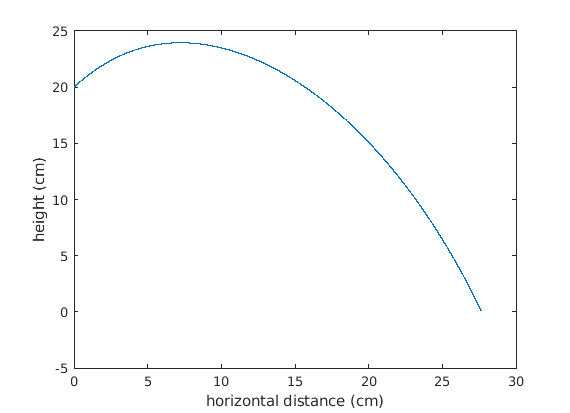
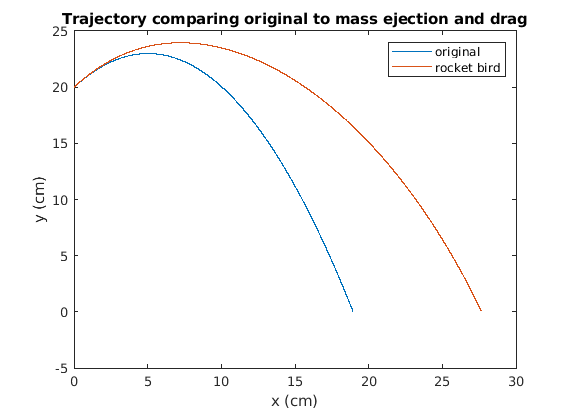
modified some plots, solved ODE RK2

diff --git a/numericalMethods/hwk3/tc3_4_3.m b/numericalMethods/hwk3/tc3_4_3.m
@@ -1,0 +1,93 @@
+% Initial value problem. Sailboat in wavy waters with Runga Kutta
+% function is 100 x'' = 50Vcos(o) + 6Asin(x/10) - 60x'
+
+% N = 6;
+% x = linspace(0,20,N);
+% L(x,1,1)
+% return;
+
+dt = .1;
+t = [0:dt:20];
+N = 20;
+x = linspace(0,20,N);
+dx = x(2) - x(1)
+
+O = zeros(length(t)-1,N);
+O(1,:) = initiate_phis(x);
+
+
+for n=1:length(t)-1
+	k1=f(t(n), O(n,:),dx)';
+	k2=f(t(n)+dt,O(n,:)+dt*k1,dx)';
+	O(n+1,:)=O(n,:) + (k1/2+k2/2)*dt;
+end;
+
+% plot phis for when t = 0,5,10,15
+times = [0 5 10 15];
+for time = times
+	t_i = time/dt + 1; %index with our phis
+	plot(x,O(t_i,:))
+	xlabel('x')
+	ylabel('phi')
+
+end
+% Compare RK2 with a built in
+% [tmat,xmat]=ode23(@f,[0 20],O(1,:));
+% hold on
+% plot(tmat,xmat(:,2))
+% title("RK2 for system of ODEs dO/dt + UdO/dx = v*d2O/dx2")
+% legend('RK2 approximation','ode23 - Matlab builtin solver','location','southeast')
+% 
+% disp('the matlab built-in matches very well with the RK2 solution, so in a handy-wavy way, the chosen delta t of .1 is a good choice')
+
+% The equation we are dealing with::
+% dO/dt + UdO/dx = v*d2O/dx2"
+
+function vec = f(t,O,dx)
+	% set constants
+	v = .025;
+	U = 1;
+	% Return derivatives in vector:
+	O_0 = O(1);
+	L = L_mat(O,dx,U,v);
+	P = zeros(length(O)-1,1)';
+	P(1) = U/(2*dx) + v/dx^2;
+	vec = L*O(2:end)' + P'*O_0; % shouldn't his be 5x1?
+	vec = [O_0; vec];
+end
+
+function L = L_mat(O,dx,U,v)
+	N = length(O)-1; %eg:6 Phi vals, 1st and last go into P. need 5x5 matrix
+	% Make M1
+	M1 = zeros(N);
+	M1(2:end-1,1) = -1;
+        M1(2:end-1,3) = 1;
+        for i = 3:N-1;
+        	M1(i,:) = circshift(M1(i,:),i-2);
+	end
+	M1(1,2) = 1;
+	M1(end, end-1) = -2;
+	M1(end,end) = 2;
+	M1 = -U/(2*dx);
+	% Make M2
+	M2 = zeros(N);
+	M2(2:end,1) = 1;
+        M2(2:end,2) = -2;
+        M2(2:end,3) = 1;
+        for i = 3:N-1;
+        	M2(i,:) = circshift(M2(i,:),i-2);
+	end
+	M2(end,:) = circshift(M2(end,:),N-3);
+	M2(1,1) = -2;
+	M2(1,2) = 1;
+	M2 = v/dx^2*M2;
+	L = M1 + M2;
+end	
+
+
+function O = initiate_phis(x)
+	% pass in array of x,
+	% returns starting phis
+	O = exp(-((x-3)/.5).^2); % from BC
+	O(1) = 0; % from BC
+end

diff --git a/numericalMethods/hwk3/tc3_4_4.m b/numericalMethods/hwk3/tc3_4_4.m
@@ -1,0 +1,93 @@
+% Initial value problem. Sailboat in wavy waters with Runga Kutta
+% function is 100 x'' = 50Vcos(o) + 6Asin(x/10) - 60x'
+
+% N = 6;
+% x = linspace(0,20,N);
+% L(x,1,1)
+% return;
+
+dt = .1;
+t = [0:dt:20];
+N = 20;
+x = linspace(0,20,N);
+dx = x(2) - x(1)
+
+O = zeros(length(t)-1,N);
+O(1,:) = initiate_phis(x);
+
+
+for n=1:length(t)-1
+	k1=f(t(n), O(n,:),dx)';
+	k2=f(t(n)+dt,O(n,:)+dt*k1,dx)';
+	O(n+1,:)=O(n,:) + (k1/2+k2/2)*dt;
+end;
+
+% plot phis for when t = 0,5,10,15
+times = [0 5 10 15];
+for time = times
+	t_i = time/dt + 1; %index with our phis
+	plot(x,O(t_i,:))
+	xlabel('x')
+	ylabel('phi')
+
+end
+% Compare RK2 with a built in
+% [tmat,xmat]=ode23(@f,[0 20],O(1,:));
+% hold on
+% plot(tmat,xmat(:,2))
+% title("RK2 for system of ODEs dO/dt + UdO/dx = v*d2O/dx2")
+% legend('RK2 approximation','ode23 - Matlab builtin solver','location','southeast')
+% 
+% disp('the matlab built-in matches very well with the RK2 solution, so in a handy-wavy way, the chosen delta t of .1 is a good choice')
+
+% The equation we are dealing with::
+% dO/dt + UdO/dx = v*d2O/dx2"
+
+function vec = f(t,O,dx)
+	% set constants
+	v = .025;
+	U = 1;
+	% Return derivatives in vector:
+	O_0 = O(1);
+	L = L_mat(O,dx,U,v);
+	P = zeros(length(O)-1,1)';
+	P(1) = U/(2*dx) + v/dx^2;
+	vec = L*O(2:end)' + P'*O_0; % shouldn't his be 5x1?
+	vec = [O_0; vec];
+end
+
+function L = L_mat(O,dx,U,v)
+	N = length(O)-1; %eg:6 Phi vals, 1st and last go into P. need 5x5 matrix
+	% Make M1
+	M1 = zeros(N);
+	M1(2:end-1,1) = -1;
+        M1(2:end-1,3) = 1;
+        for i = 3:N-1;
+        	M1(i,:) = circshift(M1(i,:),i-2);
+	end
+	M1(1,2) = 1;
+	M1(end, end-1) = -2;
+	M1(end,end) = 2;
+	M1 = -U/(2*dx);
+	% Make M2
+	M2 = zeros(N);
+	M2(2:end,1) = 1;
+        M2(2:end,2) = -2;
+        M2(2:end,3) = 1;
+        for i = 3:N-1;
+        	M2(i,:) = circshift(M2(i,:),i-2);
+	end
+	M2(end,:) = circshift(M2(end,:),N-3);
+	M2(1,1) = -2;
+	M2(1,2) = 1;
+	M2 = v/dx^2*M2;
+	L = M1 + M2;
+end	
+
+
+function O = initiate_phis(x)
+	% pass in array of x,
+	% returns starting phis
+	O = exp(-((x-3)/.5).^2); % from BC
+	O(1) = 0; % from BC
+end

diff --git a/eng_mech/projectile_motion/q1_3_and_4_plastic.m b/eng_mech/projectile_motion/q1_3_and_4_plastic.m
@@ -1,14 +1,14 @@
 clc;
 clear;
 
-%%% Marble %%%
+%%% Plastic %%%
 % get data from fig
-open('marble-XY2.fig');
+open('plastic-XY.fig');
 a = get(gca,'Children');
 x_real = get(a, 'XData');
 y_real = get(a, 'YData');
-x_real = x_real(1:end-1);
-y_real = y_real(1:end-1);
+%x_real = x_real(1:end-1);
+%y_real = y_real(1:end-1);
 x_real = x_real/100; % convert cm to m
 y_real = y_real/100; % convert cm to m
 close;
@@ -17,15 +17,15 @@ rise = y_real(2) - y_real(1);
 run = x_real(2) - x_real(1);
 o = atand(rise/run); % measure launch angle (doesn't match well with slant)
 % get launch velocity
-disp('actual launch angle:')
+disp('actual launch angle')
 o
 delta_t = 1/60; % based on frame rate 60
 delta_d = sqrt(rise^2 + run^2); %distance traveled from initial launch
 v0 = delta_d/delta_t; %cm to m
 
 % set variables
-m = .0051; % 5.1g to kg
-d = .015; % 1.5cm diameter to m
+m = .0002; % .2g to kg
+d = .023; % 2.3cm diameter to m
 A = pi*(d/2)^2; %area
 
 %%%%%%% Theoretical (no drag) %%%%%%%%
@@ -75,20 +75,20 @@ end
 rx2 = 100*rx; % save for plotting. convert to cm
 ry2 = 100*ry;
 
-% Plot for 1.3 marble compared to no-drag
+% Plot for 1.3 platic compared to no-drag
 figure
 plot(rx1,ry1,rx2,ry2,100*x_real,100*y_real) % convert real to cm
 legend('theoretical - no drag','theoretical - drag', 'experimental','location','southwest')
 xlabel('distance (cm)')
 ylabel('height (cm)')
-title('marble projectile - comparing model to experiment')
+title('plastic projectile - comparing model to experiment')
 
 % figure
 % plot(rx2,ry2,100*x_real,100*y_real) % convert real to cm
 % legend('theoretical - with drag', 'experimental','location','southwest')
 % xlabel('distance (cm)')
 % ylabel('height (cm)')
-% title('marble projectile - comparing model to experiment')
+% title('plastic projectile - comparing model to experiment')
 
 
 %%%%%%%%%%%%%%%% functions %%%%%%%%%%%%%%%%%%
